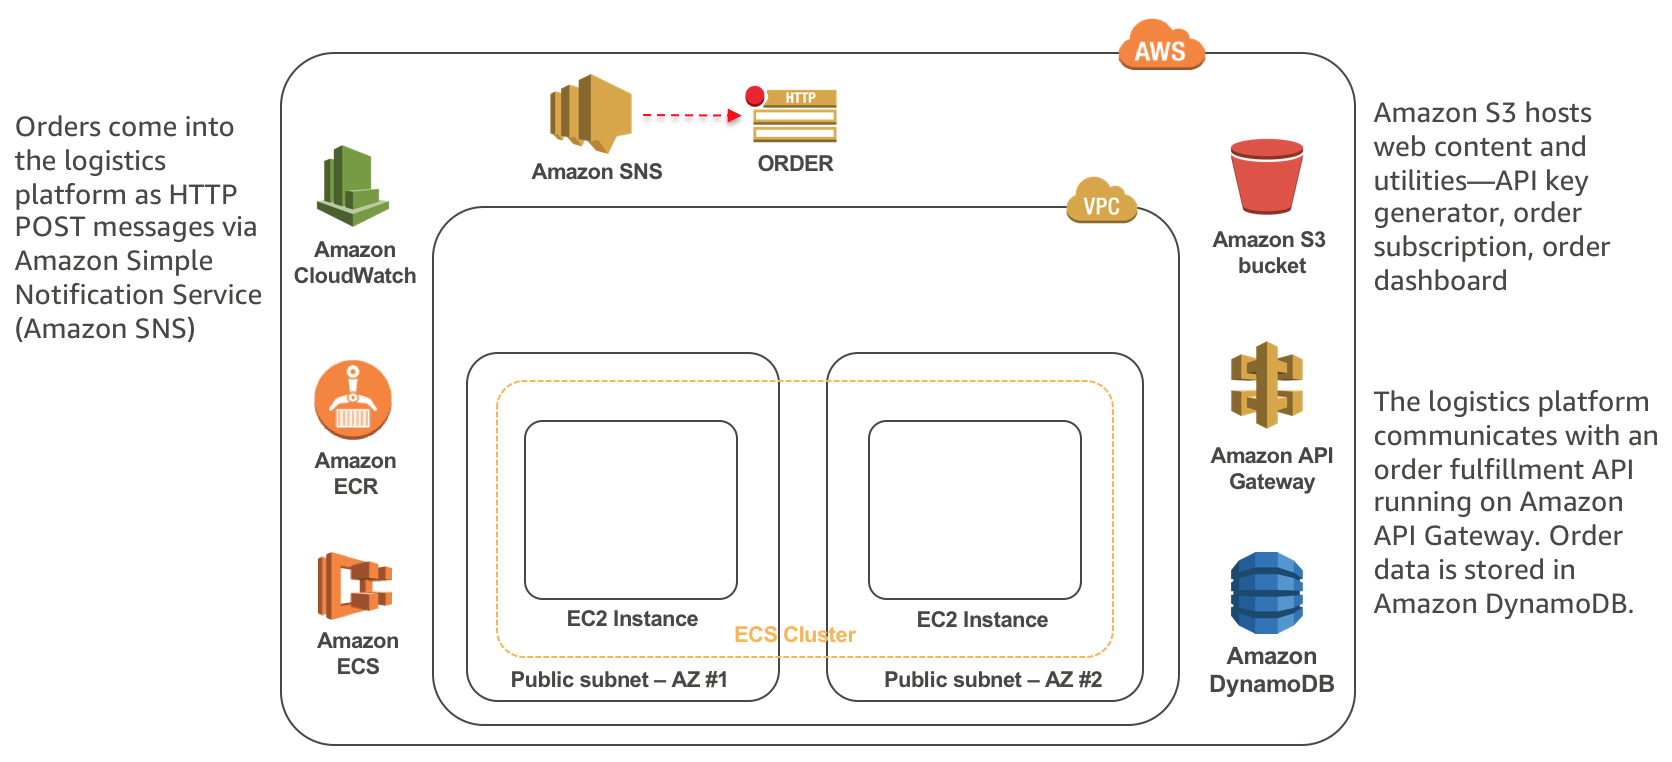
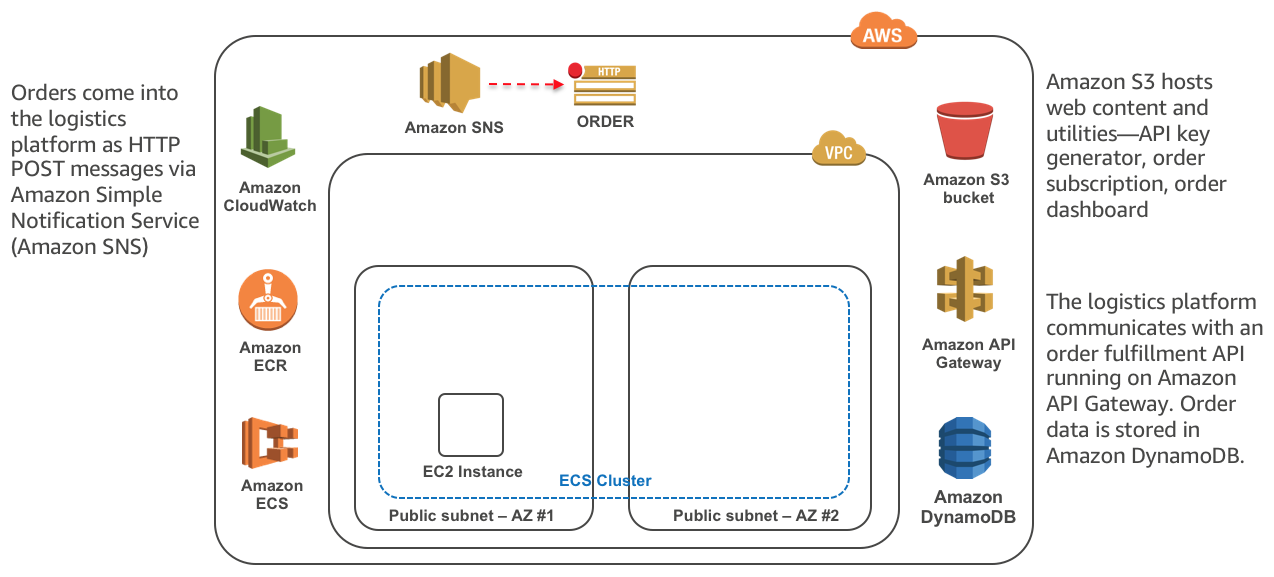
updated arch diag, minor content edits

diff --git a/workshop-microservices/readme.md b/workshop-microservices/readme.md
@@ -76,7 +76,8 @@ For example:
 The CloudFormation template will launch the following:
 
 * VPC with public subnets, routes and Internet Gateway
-* EC2 Instances with security groups (inbound tcp 22, 80, 5000) and joined to an ECS cluster
+* ECS cluster
+* EC2 instance with security groups (inbound tcp 22, 80, 5000) and joined to the ECS cluster
 * ECR repositories for your container images
 * Parameter store to hold values for API Key and fulfillment API endpoint
 * Cloud9 Development Environment
